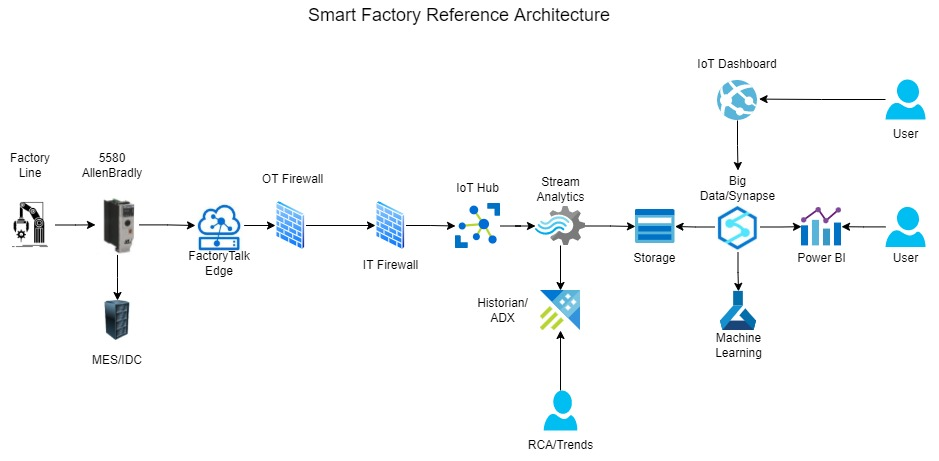
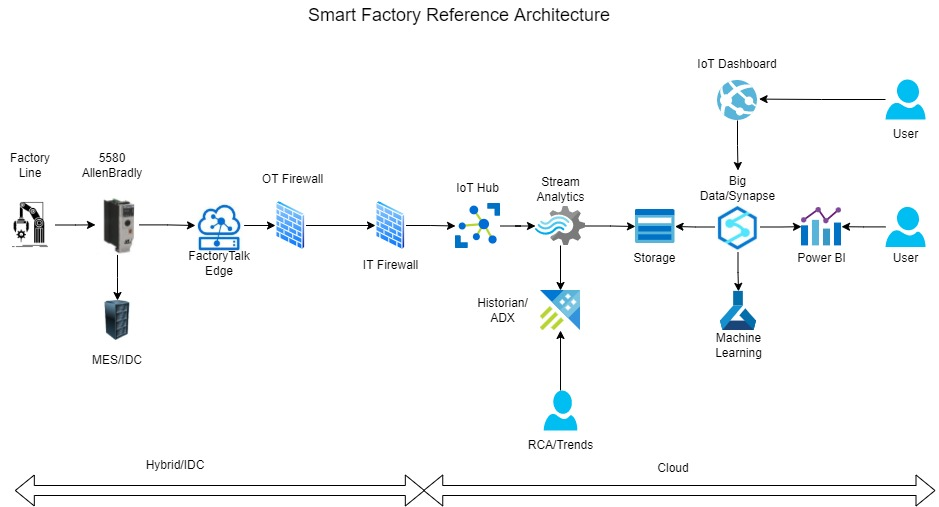
updated

diff --git a/SmartFactory.md b/SmartFactory.md
@@ -2,3 +2,19 @@
 
 ## Smart Factory Reference Architecture
 
+## Use Case
+
+- Purdue smart factory for students to learn
+- Modular approach to learn
+- Agility to change and try various configurations
+- Ability to change the line as needed
+- Connected to Enterprise systems and OT network
+- Ability to bring data from enterprise systems to MES and to line
+- Factory operation in hybrid environment
+- MES will run on premise in hybrid hardware - prefered scalable to cloud
+- Analytics and Machine learning in Cloud
+- Ability to read data from any line and equipment using Industrial IoT Gateway
+
+## Architecture
+
+![Architecture](https://github.com/balakreshnan/purduelabs/blob/main/images/purduelabs-SmartFactory.jpg "Architecture")
